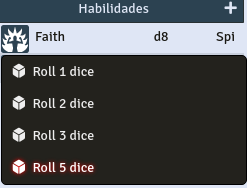
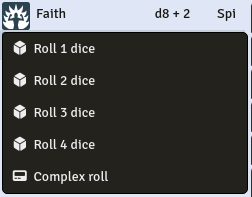
Release 1.10.0

diff --git a/README.md b/README.md
@@ -40,6 +40,14 @@ You can now turn skill rolls for NPCs in the options.
 
 When enabled the default npc sheet will be modified to add small images before the skills. Clicking on then will make the roll.
 
+## Complex Rolls
+
+You can call a complex roll either from the context menu shown after rigth clicking an image or by clicking on it with the ALT key pressed. It will show this window:
+
+![Comple_roll_windows](docs/complex_roll_window.png)
+
+Here you can any number of trait die and add a custom modifier to the roll. You can also name that modifier.
+
 ## Roll results row
 
 If you find the result row distracting, or you just don't like it, you can collapse it by default using the settings

diff --git a/CHANGELOG.md b/CHANGELOG.md
@@ -1,5 +1,9 @@
 # Changelog
 
+# 1.1.0 aka Complex rolls
+* The main feature is the complex roll window, it allows you to specify any amount of trait dice (up to 30) and add a modifier to the roll. This is also the reason for the big version bump.
+* Mark in red the rolls with a natural one on the dice even when their not critical failures
+
 # 1.0.9 aka plenty of bugfixes
 
 * This is a bugfix release, no new features
